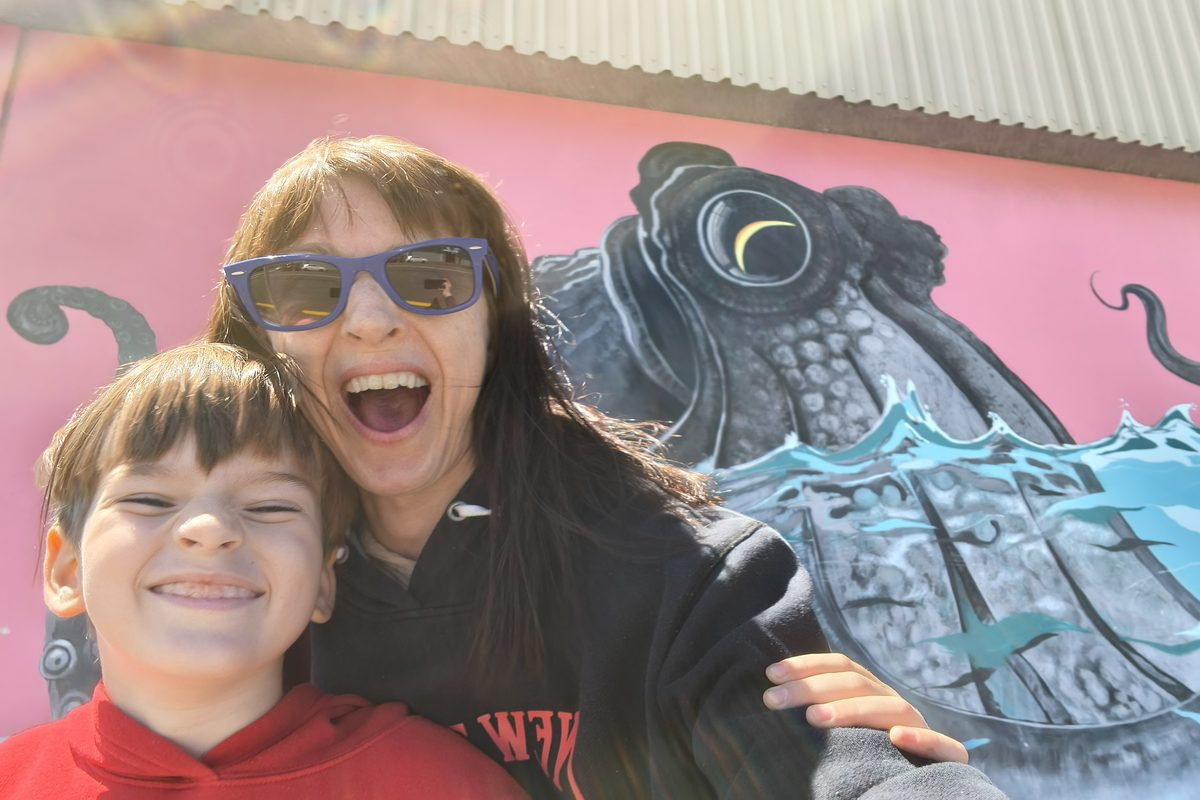
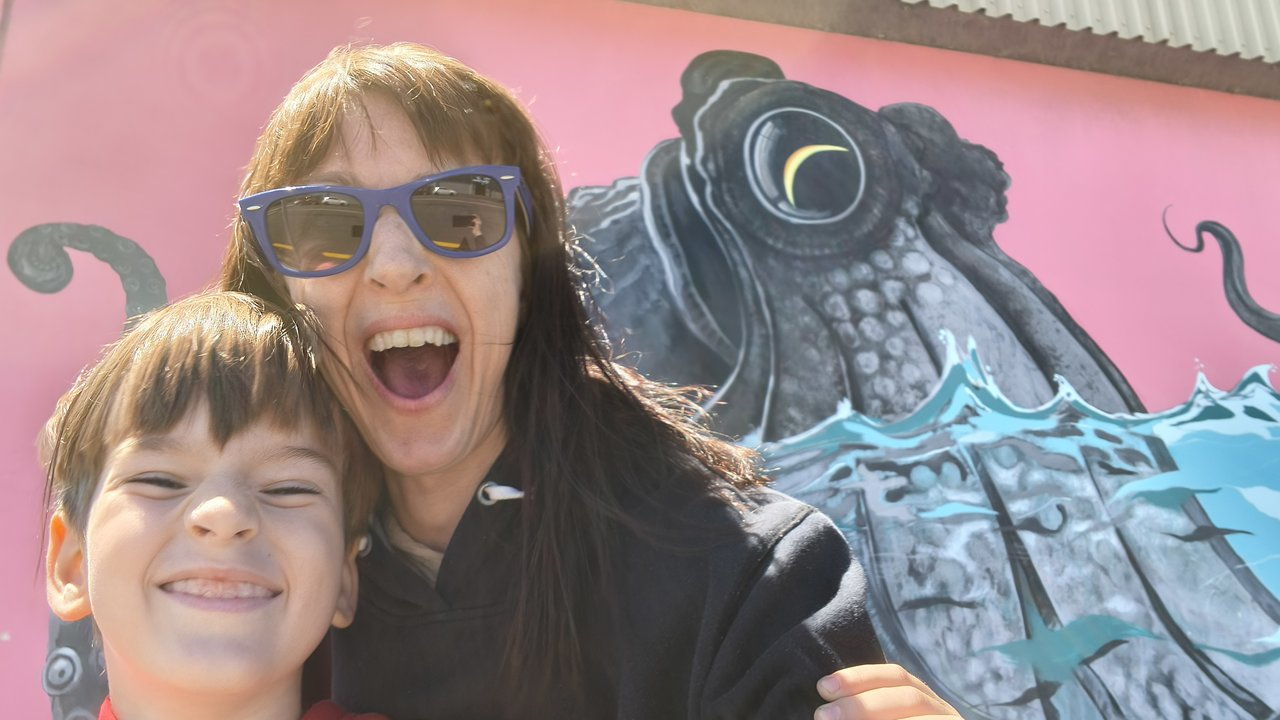
Add files via upload

diff --git a/css/style.css b/css/style.css
@@ -26,7 +26,7 @@ h1{font-family:"Bebas Neue",sans-serif;font-size:clamp(4.5rem,9vw,8.5rem);line-h
 .hero-right{display:flex;flex-direction:column;gap:1rem}
 .photo-frame{width:100%;aspect-ratio:16/9;border-radius:4px;overflow:hidden;position:relative}
 .photo-frame::after{content:"";position:absolute;bottom:0;left:0;right:0;height:3px;background:linear-gradient(90deg,var(--neon),var(--coral),var(--lav))}
-.photo-frame img{width:100%;height:100%;object-fit:cover;object-position:center center;display:block}
+.photo-frame img{width:100%;height:100%;object-fit:cover;object-position:center 30%;display:block}
 .hero-cap{font-size:0.7rem;letter-spacing:0.1em;color:var(--muted);text-transform:uppercase}
 .mq{overflow:hidden;border-top:1px solid var(--border);border-bottom:1px solid var(--border);padding:1rem 0;background:var(--plum-mid)}
 .mq-track{display:flex;animation:mq 24s linear infinite;width:max-content}
@@ -82,12 +82,12 @@ h2{font-family:"Playfair Display",serif;font-size:clamp(2rem,4vw,3.25rem);font-w
 .gl{position:absolute;bottom:0;left:0;right:0;background:linear-gradient(transparent,rgba(26,14,43,0.9));color:rgba(255,255,255,0.9);font-size:0.6rem;letter-spacing:0.08em;text-transform:uppercase;padding:1.5rem 0.75rem 0.75rem;opacity:0;transition:opacity 0.3s;line-height:1.4}
 .gi:hover .gl{opacity:1}
 .gi:first-child{grid-column:span 2;aspect-ratio:2/1}
-.gi:nth-child(6){grid-column:span 2;aspect-ratio:2/1}
+.gi:nth-child(5){grid-column:span 2;aspect-ratio:2/1}
 .about-grid{display:grid;grid-template-columns:1fr 1.5fr;gap:6rem;align-items:start}
 .about-left{position:sticky;top:8rem}
 .photo-block{width:100%;aspect-ratio:16/9;border-radius:4px;overflow:hidden;position:relative;margin-bottom:1.5rem}
 .photo-block::after{content:"";position:absolute;bottom:0;left:0;right:0;height:3px;background:linear-gradient(90deg,var(--neon),var(--coral),var(--lav))}
-.photo-block img{width:100%;height:100%;object-fit:cover;object-position:center center;display:block}
+.photo-block img{width:100%;height:100%;object-fit:cover;object-position:center 30%;display:block}
 .about-name{font-family:"Bebas Neue",sans-serif;font-size:1.5rem;letter-spacing:0.06em;margin-bottom:0.2rem}
 .about-role{font-size:0.68rem;letter-spacing:0.14em;text-transform:uppercase;color:var(--neon);margin-bottom:0.4rem}
 .about-cert{font-size:0.62rem;letter-spacing:0.1em;text-transform:uppercase;color:rgba(255,255,255,0.28);margin-bottom:1.5rem}

diff --git a/index.html b/index.html
@@ -236,6 +236,10 @@
     <div class="gi"><img src="images/kaikoura.jpg" alt="Kaha Kaikoura whale mural New Zealand" loading="lazy"><div class="gl">Kaha Kaikoura · New Zealand</div></div>
     <div class="gi"><img src="images/koi.jpg" alt="Lunar New Year mural New Zealand" loading="lazy"><div class="gl">Lunar New Year · New Zealand</div></div>
     <div class="gi"><img src="images/tui.jpg" alt="Tui bird mural New Zealand" loading="lazy"><div class="gl">Tui · New Zealand</div></div>
+    <div class="gi"><img src="images/fish.jpg" alt="Fish mural at night" loading="lazy"><div class="gl">Night Mural · Mexico</div></div>
+    <div class="gi"><img src="images/pufferfish.jpg" alt="Pufferfish mural" loading="lazy"><div class="gl">Pufferfish · Mexico</div></div>
+    <div class="gi"><img src="images/geometric.jpg" alt="Geometric women mural New Zealand" loading="lazy"><div class="gl">Geometric · New Zealand</div></div>
+    <div class="gi"><img src="images/blue_rock.jpg" alt="Blue azurite rock" loading="lazy"><div class="gl">Azurite · USA</div></div>
   </div>
 </section>
 
